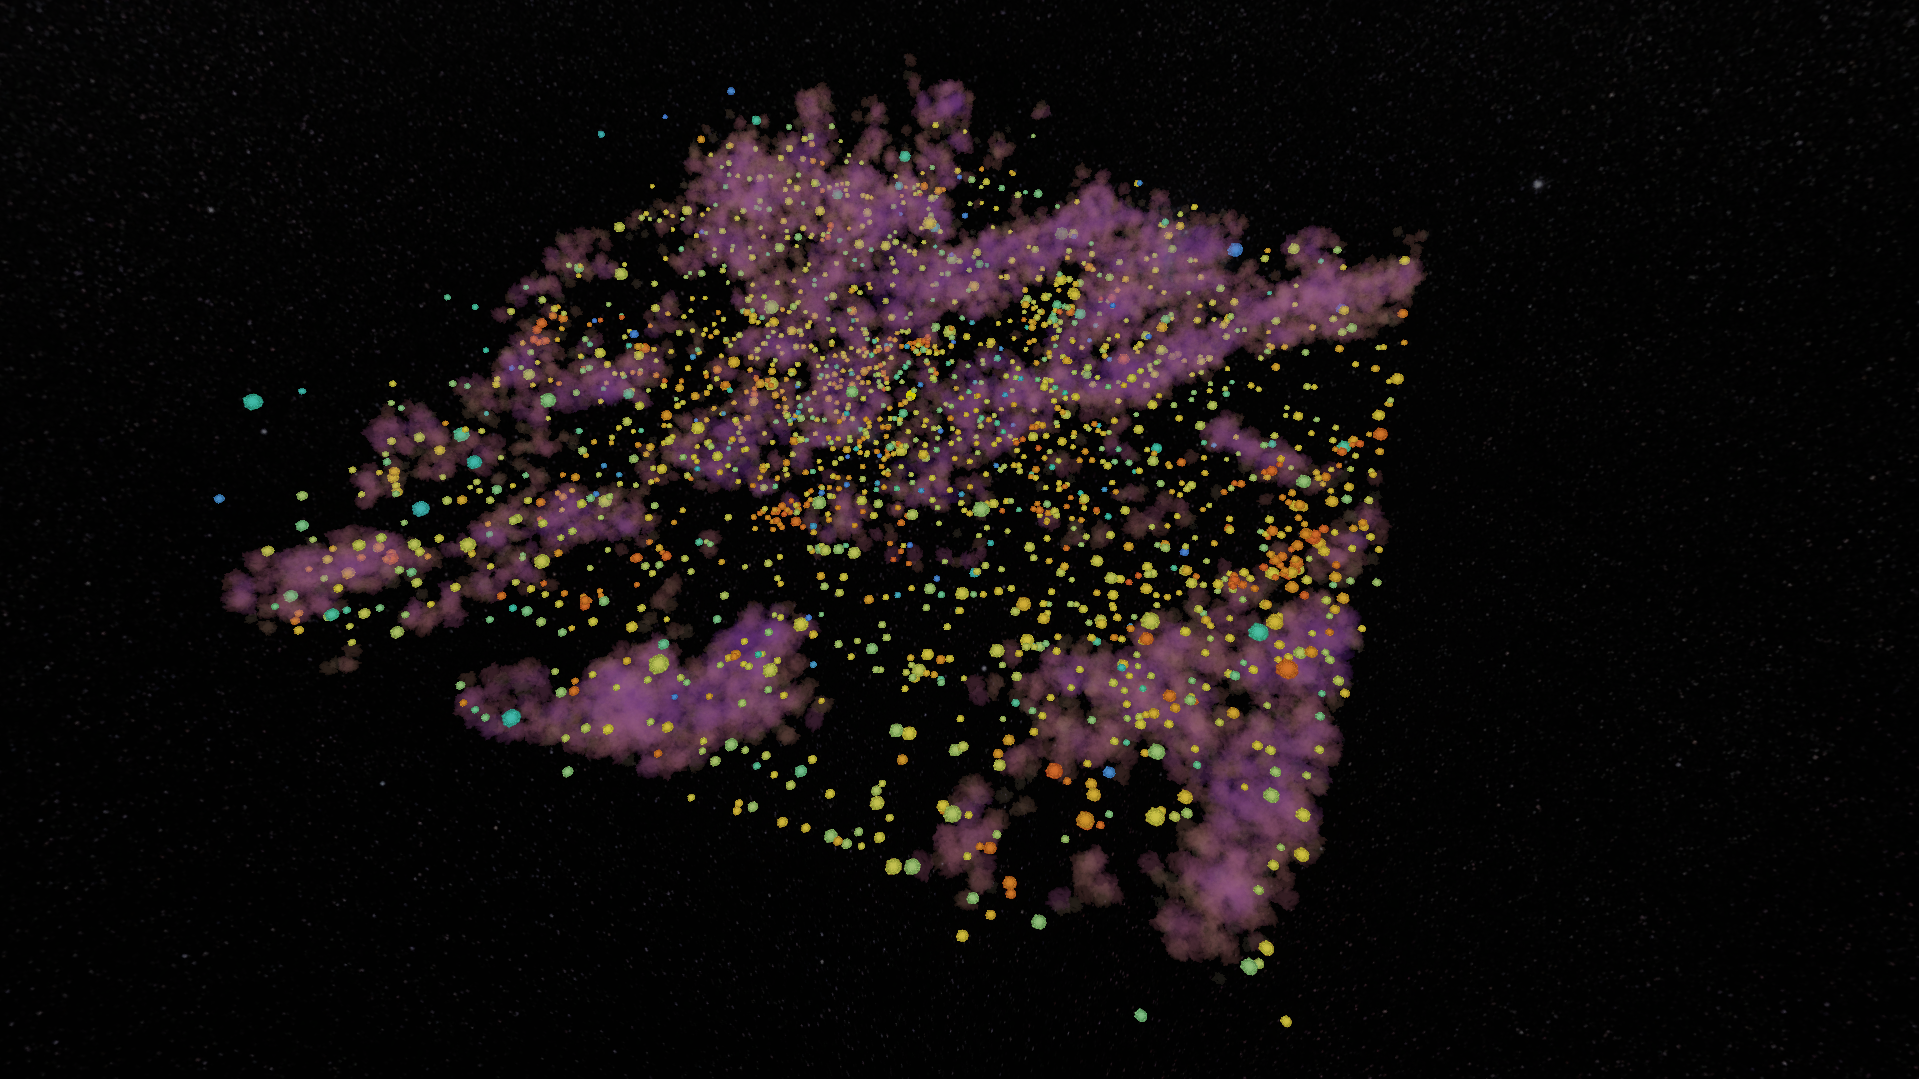
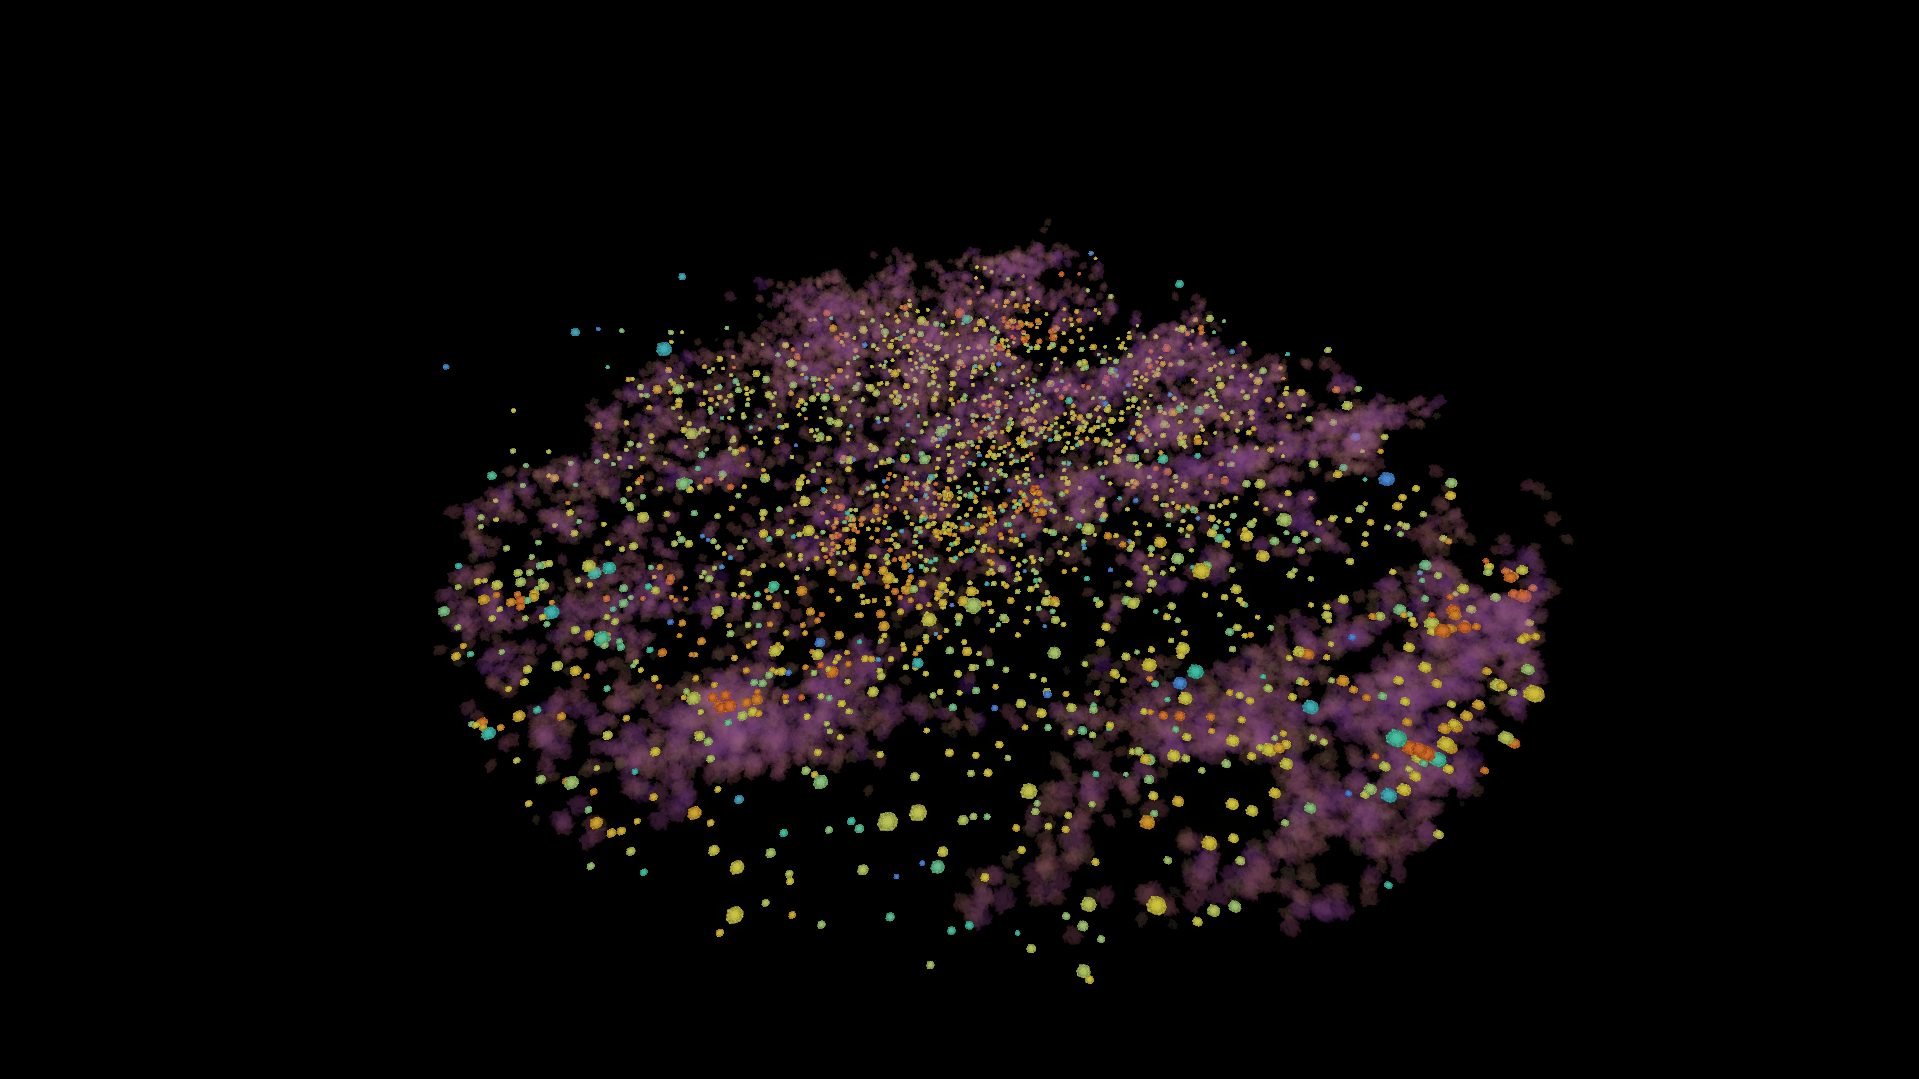
updated images

diff --git a/TODO.md b/TODO.md
@@ -7,7 +7,6 @@
 - in the release update the installation guide files names
 
 - the landmarks have a range on their website, compare the ranges with the dust on the map
-- update the images on the github
 
 # BONUS:
 
